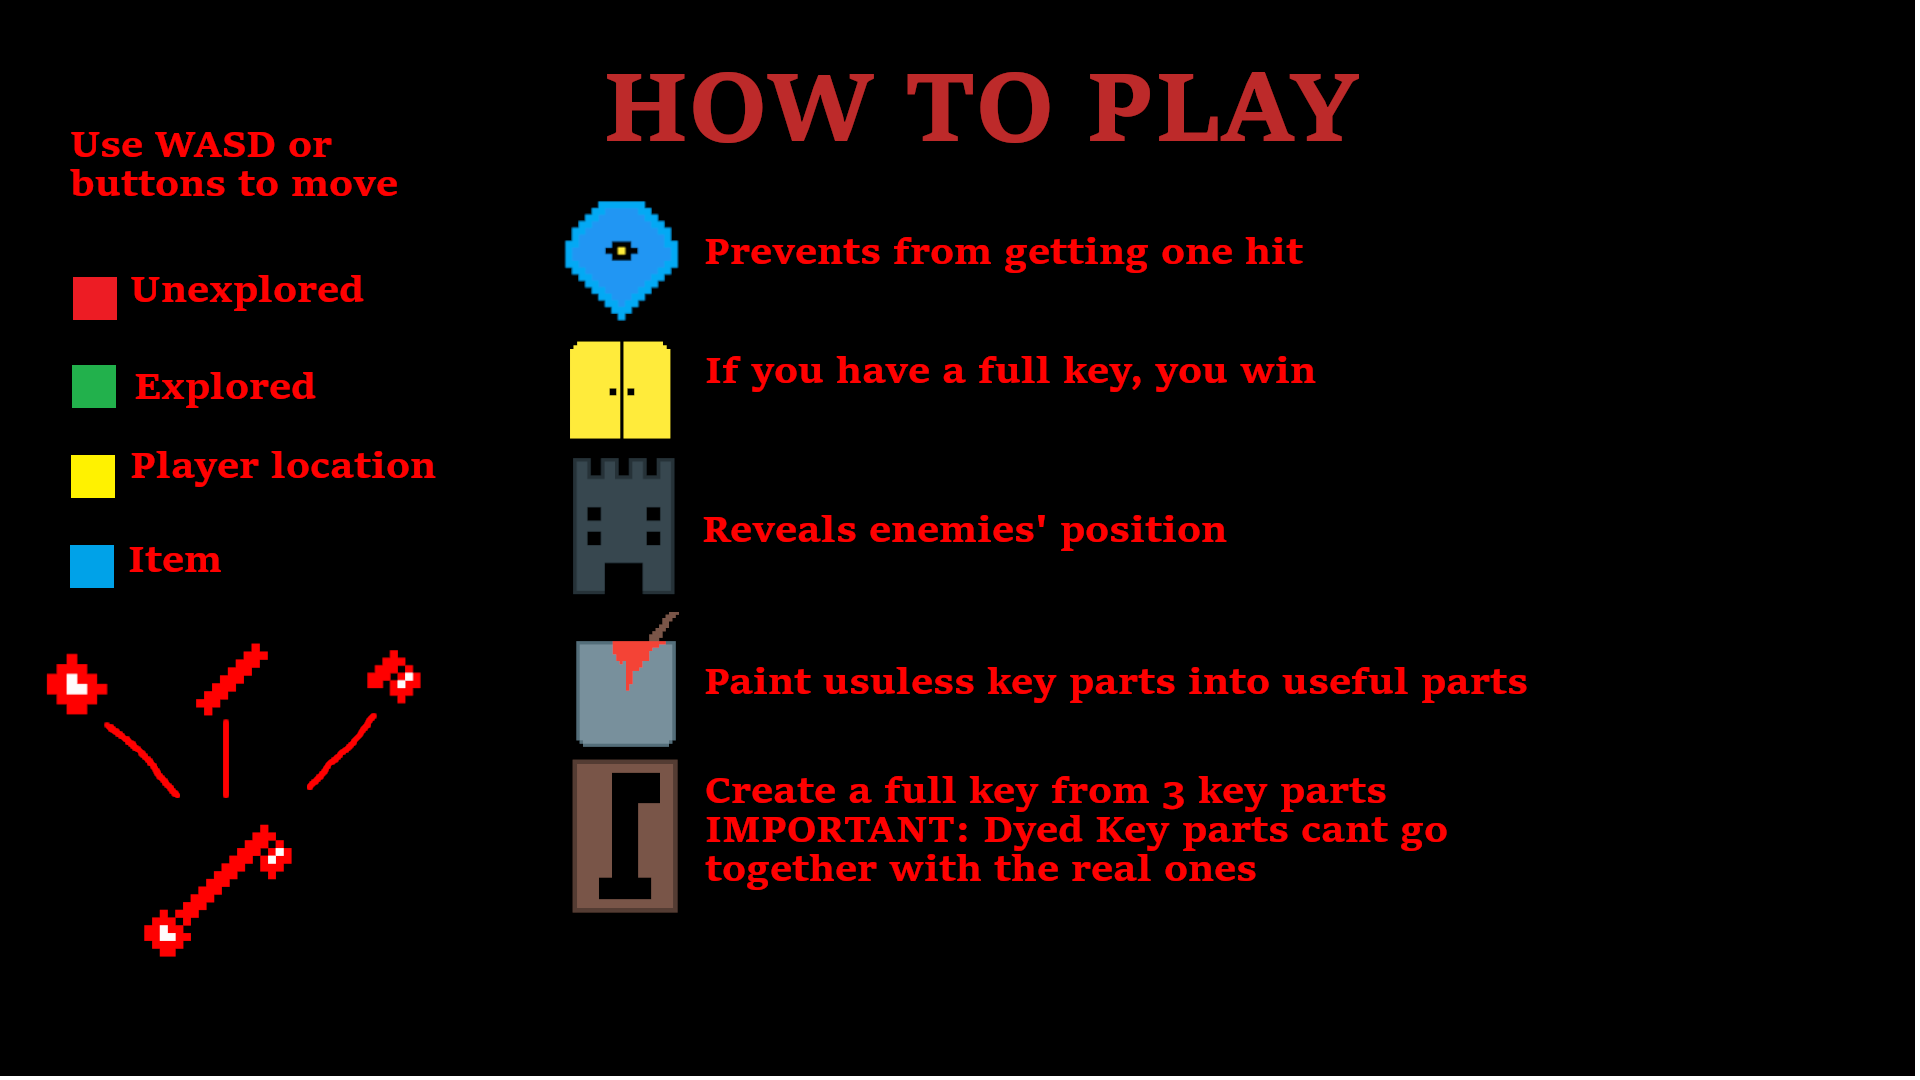
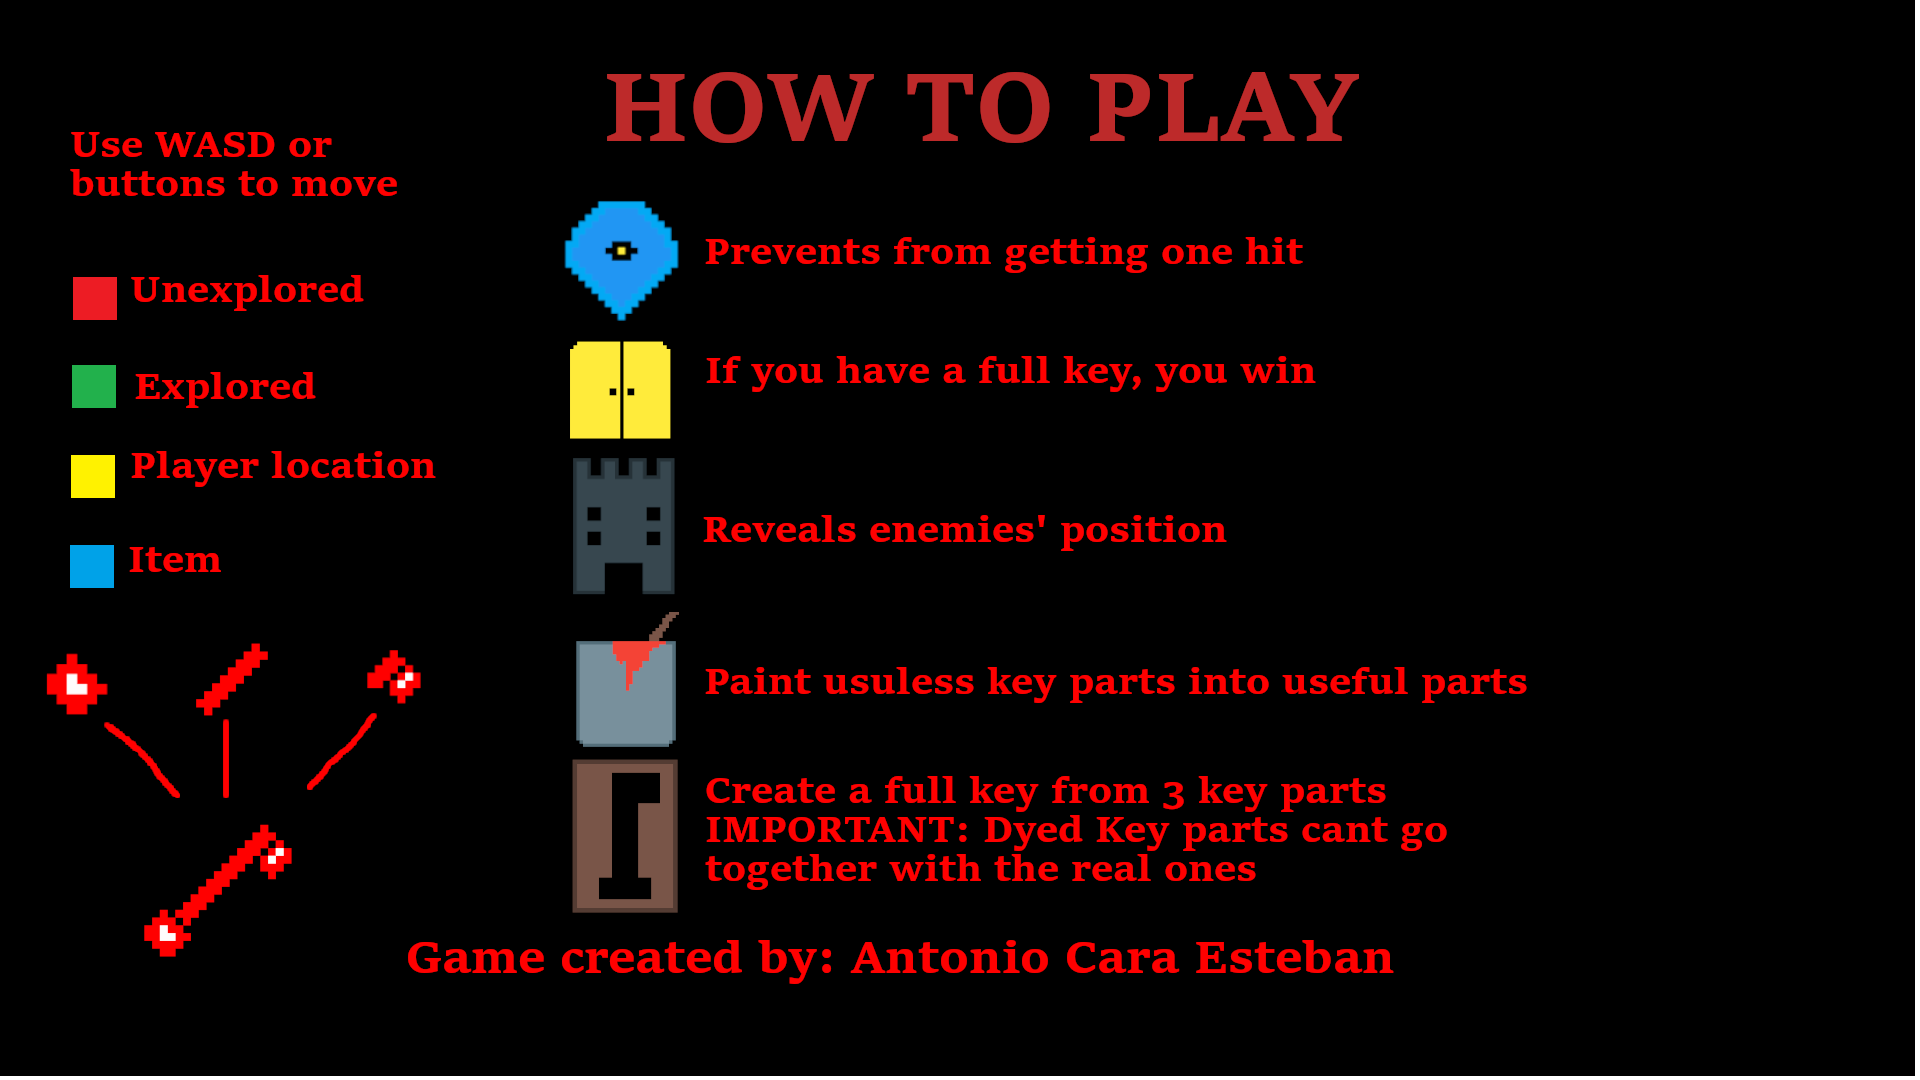
Css a los botones y un poco de decoración

Changed region(s): [[0.2188, 0.8556, 0.7188, 0.9167]]

diff --git a/src/main/java/com/darkforest/darkforest/Controladores/ControllerWinScreen.java b/src/main/java/com/darkforest/darkforest/Controladores/ControllerWinScreen.java
@@ -10,9 +10,9 @@ import javafx.scene.image.Image;
 import javafx.scene.image.ImageView;
 import javafx.scene.layout.Pane;
 import javafx.stage.Stage;
-
 import java.io.IOException;
 
+//Proyecto de fin de curso creador por Antonio Cara Esteban
 public class ControllerWinScreen {
 
     @javafx.fxml.FXML
@@ -26,8 +26,12 @@ public class ControllerWinScreen {
     @javafx.fxml.FXML
     public void returnToMainMenu(ActionEvent actionEvent) throws IOException {
         FXMLLoader fxmlLoader = new FXMLLoader(MainMenu.class.getResource("main-menu.fxml"));
-        Scene scene = new Scene(fxmlLoader.load(),600,400);
+        Scene scene = new Scene(fxmlLoader.load(),650,450);
         Stage stage = new Stage();
+        stage.setMinWidth(650);
+        stage.setMinHeight(450);
+        stage.setMaxWidth(750);
+        stage.setMaxHeight(550);
         stage.setTitle("Dark Forest");
         stage.getIcons().add(new Image(this.getClass().getResource("/img/icon.png").toString()));
         stage.setScene(scene);

diff --git a/src/main/java/com/darkforest/darkforest/Controladores/ControllerMainMenu.java b/src/main/java/com/darkforest/darkforest/Controladores/ControllerMainMenu.java
@@ -7,16 +7,15 @@ import javafx.fxml.FXMLLoader;
 import javafx.scene.Node;
 import javafx.scene.Scene;
 import javafx.scene.control.Button;
-import javafx.scene.control.Label;
 import javafx.scene.image.Image;
 import javafx.scene.layout.Pane;
 import javafx.scene.text.Text;
 import javafx.stage.Stage;
-
 import java.io.File;
 import java.io.FileWriter;
 import java.io.IOException;
 
+//Proyecto de fin de curso creador por Antonio Cara Esteban
 public class ControllerMainMenu {
 
     @FXML

diff --git a/src/main/java/com/darkforest/darkforest/MainMenu.java b/src/main/java/com/darkforest/darkforest/MainMenu.java
@@ -5,9 +5,9 @@ import javafx.fxml.FXMLLoader;
 import javafx.scene.Scene;
 import javafx.scene.image.Image;
 import javafx.stage.Stage;
-
 import java.io.IOException;
 
+//Proyecto de Fin de curso creador por Antonio Cara Esteban
 public class MainMenu extends Application {
     @Override
     public void start(Stage stage) throws IOException {

diff --git a/src/main/java/com/darkforest/darkforest/Controladores/ControllerDeathScreen.java b/src/main/java/com/darkforest/darkforest/Controladores/ControllerDeathScreen.java
@@ -10,9 +10,9 @@ import javafx.scene.image.Image;
 import javafx.scene.image.ImageView;
 import javafx.scene.layout.Pane;
 import javafx.stage.Stage;
-
 import java.io.IOException;
 
+//Proyecto de fin de curso creador por Antonio Cara Esteban
 public class ControllerDeathScreen {
     @javafx.fxml.FXML
     private Button btReturn;

diff --git a/src/main/java/com/darkforest/darkforest/Class/Player.java b/src/main/java/com/darkforest/darkforest/Class/Player.java
@@ -1,10 +1,11 @@
 package com.darkforest.darkforest.Class;
 
 public class Player {
+
    private int hp,slots;
    private String name,keytype;
 
-   //Constructor
+    //Proyecto de fin de curso creador por Antonio Cara Esteban
 
     public Player(String name, int hp, int slots, String keytype) {
         this.name = name;

diff --git a/src/main/java/com/darkforest/darkforest/Controladores/ControllerGameField.java b/src/main/java/com/darkforest/darkforest/Controladores/ControllerGameField.java
@@ -74,6 +74,7 @@ public class ControllerGameField {
     int[][] statusTable;
 
 
+    //Proyecto de fin de curso creador por Antonio Cara Esteban
     public void initialize() throws IOException {
         File charinfo=new File(System.getProperty("user.dir"), "personaje.txt");
         characterChoosed(charinfo);

diff --git a/src/main/java/com/darkforest/darkforest/Class/Item.java b/src/main/java/com/darkforest/darkforest/Class/Item.java
@@ -2,8 +2,9 @@ package com.darkforest.darkforest.Class;
 
 public class Item {
 
-    int piece;
+    //Proyecto de fin de curso creador por Antonio Cara Esteban
 
+    int piece;
 
     //Sirve para saber en parte de la array del inventario están para reorgalizarlos mejor
     public Item(int piece) {

diff --git a/src/main/java/com/darkforest/darkforest/Controladores/ControllerHowToPlay.java b/src/main/java/com/darkforest/darkforest/Controladores/ControllerHowToPlay.java
@@ -9,9 +9,9 @@ import javafx.scene.control.Button;
 import javafx.scene.image.Image;
 import javafx.scene.layout.Pane;
 import javafx.stage.Stage;
-
 import java.io.IOException;
 
+//Proyecto de Fin de curso creador por Antonio Cara Esteban
 public class ControllerHowToPlay {
 
     @javafx.fxml.FXML

diff --git a/src/main/java/com/darkforest/darkforest/Controladores/ControllerSetCharacter.java b/src/main/java/com/darkforest/darkforest/Controladores/ControllerSetCharacter.java
@@ -14,8 +14,8 @@ import javafx.scene.layout.Pane;
 import javafx.stage.Stage;
 
 import java.io.*;
-import java.net.MalformedURLException;
 
+//Proyecto de Fin de curso creador por Antonio Cara Esteban
 public class ControllerSetCharacter {
     @javafx.fxml.FXML
     private ToggleGroup select;

diff --git a/src/main/java/com/darkforest/darkforest/Launcher.java b/src/main/java/com/darkforest/darkforest/Launcher.java
@@ -1,6 +1,7 @@
 package com.darkforest.darkforest;
 
 public class Launcher {
+    //Proyecto de fin de curso creador por Antonio Cara Esteban
     public static void main(String[] args) {
         MainMenu.main(args);
     }

diff --git a/src/main/java/com/darkforest/darkforest/Class/Enemy.java b/src/main/java/com/darkforest/darkforest/Class/Enemy.java
@@ -2,6 +2,8 @@ package com.darkforest.darkforest.Class;
 
 public class Enemy {
 
+    //Proyecto de fin de curso creador por Antonio Cara Esteban
+
     private int posX,posY;
 
     public Enemy(int posX, int posY) {
